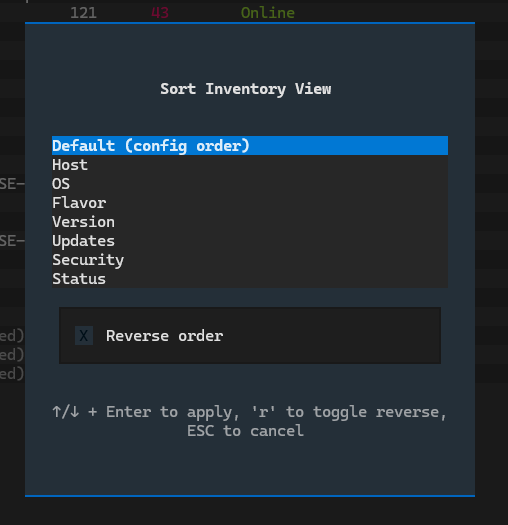
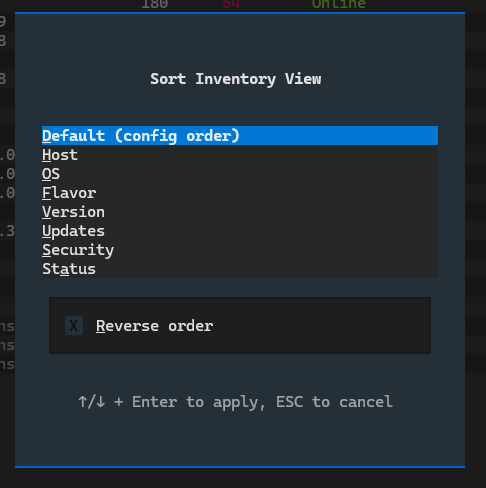
UI: Add quick-select keys for sorting options
Add hotkeys very much like we have on the Filter screen, to the Sort
screen.

This allows users to quickly apply a sort via one or two keypresses,
and brings feature parity with the Filter screen.

Documentation has been updated to reflect this, unit tests have been
added to lock in the expected behavior, and a kind of crappy smoketest
has been added to the integration tests suite to ensure the ListItems
in the view are in the expected order (from enum), since this is
a bit of a core assumption in the implementation.

Pull request: UI: Add quick-select keys for sorting options
Add hotkeys very much like we have on the Filter screen, to the Sort screen.

This allows users to quickly apply a sort via one or two keypresses, and brings feature parity with the Filter screen.

Documentation has been updated to reflect this, unit tests have been added to lock in the expected behavior, and a kind of crappy smoketest has been added to the integration tests suite to ensure the ListItems in the view are in the expected order (from enum), since this is a bit of a core assumption in the implementation.

Changed region(s): [[0.0, 0.0, 0.9568, 0.9836], [0.0926, 0.7684, 0.8642, 0.8607], [0.3086, 0.1537, 0.679, 0.1844]]

diff --git a/tests/ui/test_inventory_ui.py b/tests/ui/test_inventory_ui.py
@@ -641,6 +641,91 @@ class TestSortScreen:
 
         mock_dismiss.assert_called_once_with(None)
 
+    @pytest.mark.parametrize(
+        "key, expected_field",
+        [
+            ("h", SortField.HOST),
+            ("o", SortField.OS),
+            ("f", SortField.FLAVOR),
+            ("v", SortField.VERSION),
+            ("u", SortField.UPDATES),
+            ("s", SortField.SECURITY),
+            ("a", SortField.STATUS),
+            ("H", SortField.HOST),  # case-insensitive
+            ("d", None),  # default/config order
+        ],
+        ids=[
+            "host",
+            "os",
+            "flavor",
+            "version",
+            "updates",
+            "security",
+            "status",
+            "host-uppercase",
+            "default",
+        ],
+    )
+    def test_quick_key_dismisses_with_field(self, mocker, key, expected_field):
+        """Each quick-key applies its mapped field (default, non-reversed)."""
+        screen = SortScreen()
+        mock_checkbox = mocker.Mock()
+        mock_checkbox.value = False
+        mocker.patch.object(screen, "query_one", return_value=mock_checkbox)
+        mock_dismiss = mocker.patch.object(screen, "dismiss")
+
+        event = mocker.Mock()
+        event.key = key
+        screen.on_key(event)
+
+        mock_dismiss.assert_called_once_with((expected_field, False))
+        event.stop.assert_called_once()
+
+    @pytest.mark.parametrize("reverse", [True, False])
+    def test_quick_key_carries_reverse_state(self, mocker, reverse):
+        """Dismissing via quick key includes reverse checkbox state"""
+        screen = SortScreen()
+        mock_checkbox = mocker.Mock()
+        mock_checkbox.value = reverse
+        mocker.patch.object(screen, "query_one", return_value=mock_checkbox)
+        mock_dismiss = mocker.patch.object(screen, "dismiss")
+
+        event = mocker.Mock()
+        event.key = "h"
+        screen.on_key(event)
+
+        mock_dismiss.assert_called_once_with((SortField.HOST, reverse))
+
+    def test_reverse_key_toggles_checkbox_without_dismissing(self, mocker):
+        """'r' flips the reverse checkbox and does not dismiss."""
+        screen = SortScreen()
+        mock_checkbox = mocker.Mock()
+        mock_checkbox.value = False
+        mocker.patch.object(screen, "query_one", return_value=mock_checkbox)
+        mock_dismiss = mocker.patch.object(screen, "dismiss")
+
+        event = mocker.Mock()
+        event.key = "r"
+        screen.on_key(event)
+
+        assert mock_checkbox.value is True
+        mock_dismiss.assert_not_called()
+
+    def test_unmapped_key_is_ignored(self, mocker):
+        """A key with no binding doesn't do anything."""
+        screen = SortScreen()
+        mock_checkbox = mocker.Mock()
+        mock_checkbox.value = False
+        mocker.patch.object(screen, "query_one", return_value=mock_checkbox)
+        mock_dismiss = mocker.patch.object(screen, "dismiss")
+
+        event = mocker.Mock()
+        event.key = "z"
+        screen.on_key(event)
+
+        mock_dismiss.assert_not_called()
+        event.stop.assert_not_called()
+
 
 class TestActionSortView:
     """Test the action_sort_view method and sort selection."""

diff --git a/src/exosphere/ui/inventory.py b/src/exosphere/ui/inventory.py
@@ -96,12 +96,16 @@ class FilterScreen(Screen):
         match event.key:
             case "escape":
                 self.dismiss(None)
+                event.stop()
             case "a" | "A":
                 self.dismiss(FilterMode.NONE)
+                event.stop()
             case "u" | "U":
                 self.dismiss(FilterMode.UPDATES_ONLY)
+                event.stop()
             case "s" | "S":
                 self.dismiss(FilterMode.SECURITY_ONLY)
+                event.stop()
 
 
 class SortScreen(Screen):
@@ -126,11 +130,17 @@ class SortScreen(Screen):
         self._reverse = reverse
 
     def compose(self) -> ComposeResult:
-        items = [ListItem(Label("Default (config order)"), id="sort-none")]
-        items.extend(
-            ListItem(Label(field.label), id=f"sort-{field.value}")
-            for field in SortField
-        )
+        # Sort options items, with hotkey indicators
+        items = [
+            ListItem(Label("[u]D[/u]efault (config order)"), id="sort-none"),
+            ListItem(Label("[u]H[/u]ost"), id="sort-host"),
+            ListItem(Label("[u]O[/u]S"), id="sort-os"),
+            ListItem(Label("[u]F[/u]lavor"), id="sort-flavor"),
+            ListItem(Label("[u]V[/u]ersion"), id="sort-version"),
+            ListItem(Label("[u]U[/u]pdates"), id="sort-updates"),
+            ListItem(Label("[u]S[/u]ecurity"), id="sort-security"),
+            ListItem(Label("St[u]a[/u]tus"), id="sort-status"),
+        ]
 
         # Preselect the current sort field, if any. Index 0 is the
         # "Default (config order)" entry, so fields are offset by one.
@@ -142,10 +152,11 @@ class SortScreen(Screen):
             Container(
                 Label("Sort Inventory View", id="sort-title"),
                 ListView(*items, id="sort-list", initial_index=initial_index),
-                Checkbox("Reverse order", value=self._reverse, id="sort-reverse"),
+                Checkbox(
+                    "[u]R[/u]everse order", value=self._reverse, id="sort-reverse"
+                ),
                 Label(
-                    "[dim]↑/↓ + Enter to apply, 'r' to toggle reverse, "
-                    "ESC to cancel[/dim]",
+                    "[dim]↑/↓ + Enter to apply, ESC to cancel[/dim]",
                     id="sort-help",
                 ),
                 classes="filter-message",
@@ -184,15 +195,41 @@ class SortScreen(Screen):
         self.dismiss((field, reverse))
         event.stop()
 
+    def _apply_sort(self, field: SortField | None, event: Key) -> None:
+        """Read the reverse checkbox and dismiss with the chosen sort."""
+        reverse = self.query_one("#sort-reverse", Checkbox).value
+        self.dismiss((field, reverse))
+        event.stop()
+
     def on_key(self, event: Key) -> None:
-        """Handle window key events for exit."""
-        match event.key:
+        """Handle window key events for quick select and exit."""
+        match event.key.lower():
             case "escape":
+                # Exit without applying changes
                 self.dismiss(None)
+                event.stop()
             case "r":
-                # Toggle reverse on 'r' key for convenience
+                # Flip the reverse checkbox value
                 reverse_checkbox = self.query_one("#sort-reverse", Checkbox)
                 reverse_checkbox.value = not reverse_checkbox.value
+                event.stop()
+            case "d":
+                # Default Sort (config order)
+                self._apply_sort(None, event)
+            case "h":
+                self._apply_sort(SortField.HOST, event)
+            case "o":
+                self._apply_sort(SortField.OS, event)
+            case "f":
+                self._apply_sort(SortField.FLAVOR, event)
+            case "v":
+                self._apply_sort(SortField.VERSION, event)
+            case "u":
+                self._apply_sort(SortField.UPDATES, event)
+            case "s":
+                self._apply_sort(SortField.SECURITY, event)
+            case "a":
+                self._apply_sort(SortField.STATUS, event)
 
 
 class HostDetailsPanel(Screen):

diff --git a/tests/ui/test_integration.py b/tests/ui/test_integration.py
@@ -13,11 +13,13 @@ awful little corner of hell instead of spreading it everywhere.
 """
 
 import pytest
+from textual.widgets import ListItem, ListView
 
+from exosphere.inventory import SortField
 from exosphere.ui.app import ExosphereUi
 from exosphere.ui.dashboard import DashboardScreen
 from exosphere.ui.elements import ErrorScreen
-from exosphere.ui.inventory import InventoryScreen
+from exosphere.ui.inventory import InventoryScreen, SortScreen
 from exosphere.ui.logs import LogsScreen
 
 
@@ -156,3 +158,36 @@ async def test_error_screen_display_and_dismiss():
 
         # Should be back on dashboard after dismissing error
         assert isinstance(app.screen, DashboardScreen)
+
+
[email redacted]
+async def test_sort_screen_list_matches_sortfield():
+    """
+    The SortScreen sort list must stay aligned with SortField.
+
+    The rows in the SortScreen's sort list are expected to be ordered
+    the exact same way as the Enum members of SortField, with a
+    "Default" entry at the top.
+
+    This assumption is essentially baked into the SortScreen's behavior
+    This test is meant to trip if that assumption breaks, and the
+    entries are out of sync/misaligned, and this needs fixed.
+
+    For the future generations reading this test wondering why
+    it's red, and why this idiot didn't dynamically generate
+    the list from enum members: It was because doing that AND
+    modifying the labels with their hotkey underline in the UI was
+    actively WAY uglier than just unrolling the enum members into a
+    nice static list of ListItems. And also, quit whining, the things
+    you have to modify to fix this are like, three feet to the left.
+    """
+    app = ExosphereUi()
+    async with app.run_test() as pilot:
+        app.push_screen(SortScreen())
+        await pilot.pause()
+
+        assert isinstance(app.screen, SortScreen)
+        list_view = app.screen.query_one("#sort-list", ListView)
+        ids = [item.id for item in list_view.query(ListItem)]
+
+    assert ids == ["sort-none"] + [f"sort-{field.value}" for field in SortField]

diff --git a/docs/source/ui.rst b/docs/source/ui.rst
@@ -237,13 +237,17 @@ columns with the Arrow Keys, toggle reverse by pressing ``r`` (or focusing
 the checkbox with ``Tab`` and pressing ``Space``), and press ``Enter`` to
 apply.
 
+Each entry also has an underlined quick-select key (``H`` for
+*Host*, ``O`` for *OS*, ``S`` for *Security*, etc.) that applies that sort
+**immediately** when pressed.
+
 .. image:: /_static/sort_sample.png
    :alt: Example of Exosphere TUI Sort Prompt
 
 After applying a sort, the active sort field and direction are shown in
 the status bar alongside any active filter. You can restore the original
 configuration order by pressing `ctrl+s` again and selecting the
-"Default (config order)" option.
+"Default (config order)" option (or pressing ``D``).
 
 .. image:: /_static/ui_inventory_sort_statusbar.png
    :alt: Exosphere TUI Inventory Status Bar with sorted status and direction